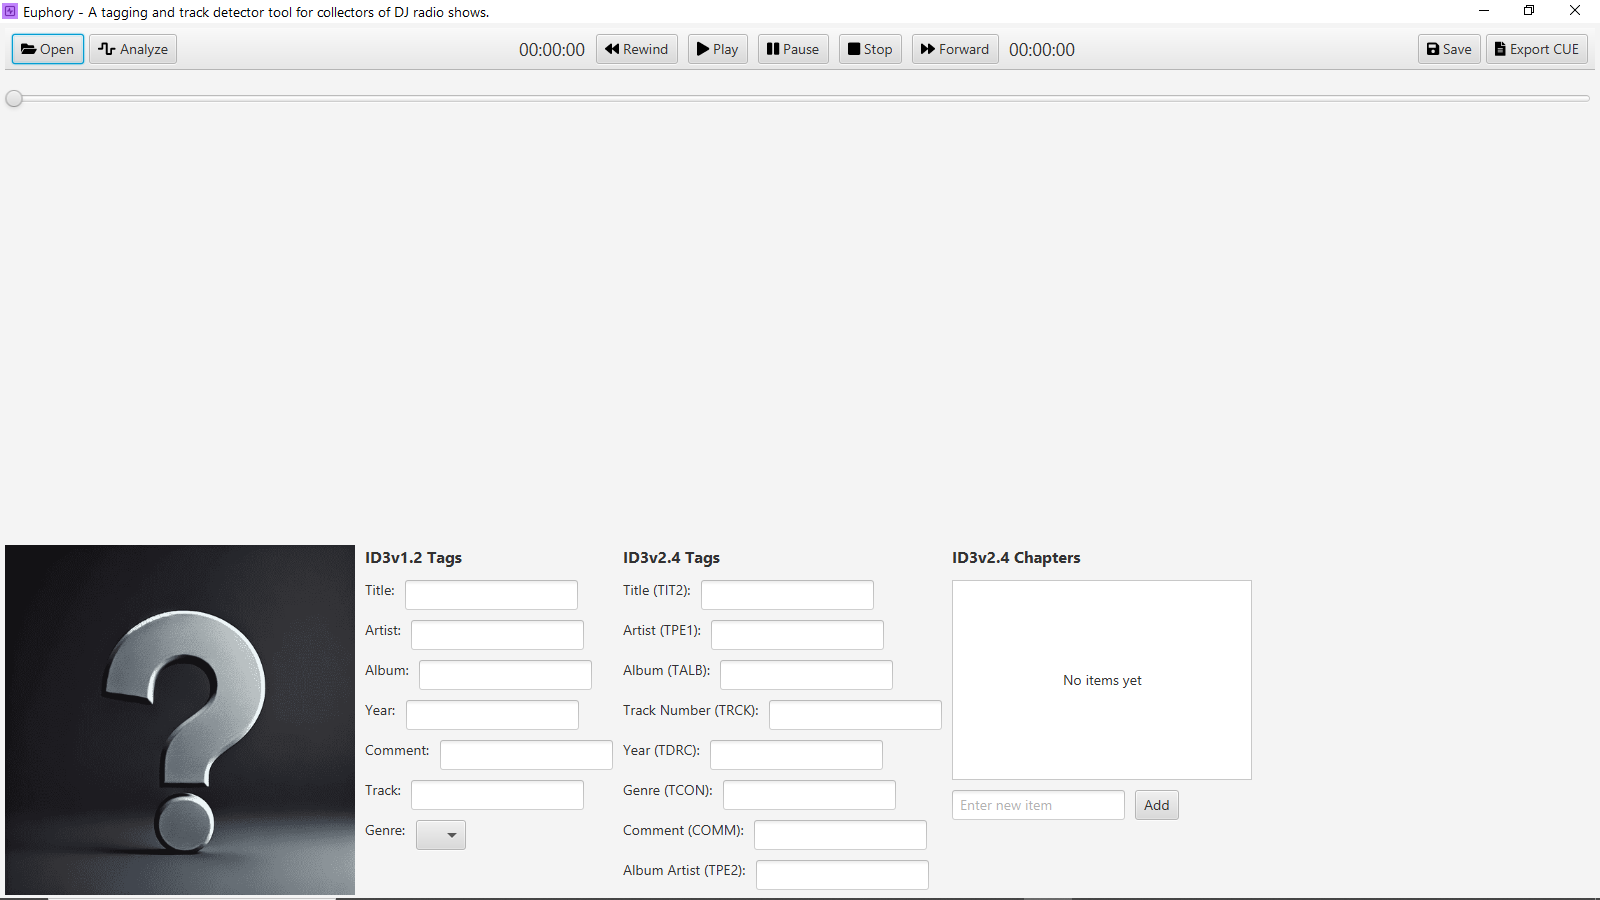
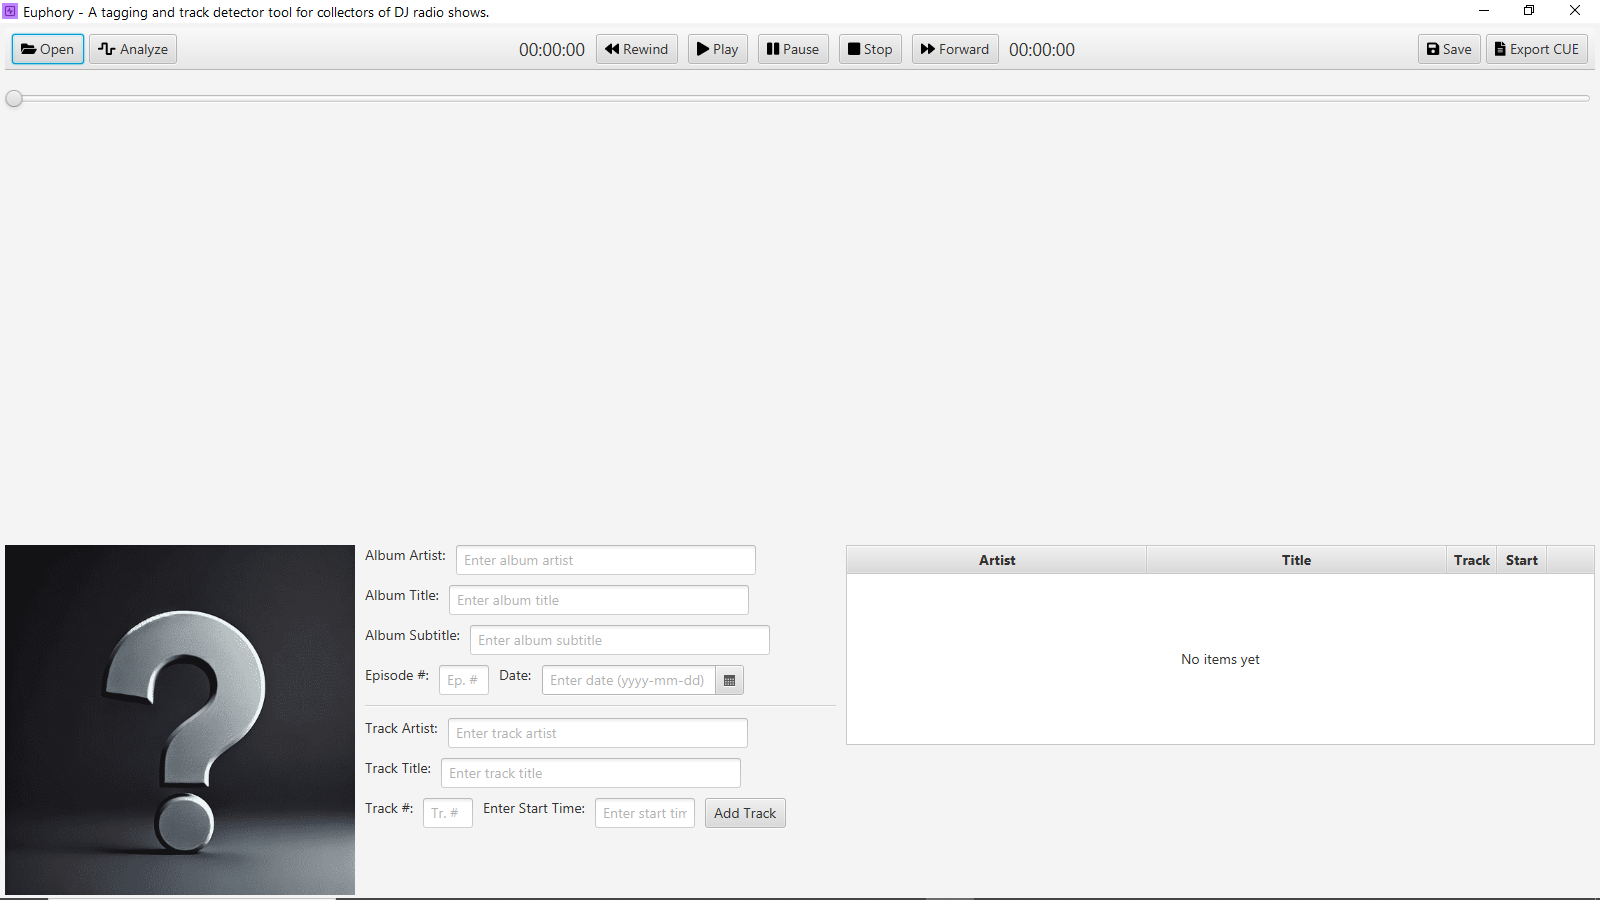
Fixed album metadata and recreated metadata interface to show metadata instead of ID3 tags

diff --git a/src/main/java/org/github/euphory/Controller.java b/src/main/java/org/github/euphory/Controller.java
@@ -10,9 +10,10 @@
 package org.github.euphory;
 
 import java.io.File;
+import java.time.LocalDate;
+import java.time.format.DateTimeFormatter;
+
 import javafx.beans.Observable;
-import javafx.collections.FXCollections;
-import javafx.collections.ObservableList;
 import javafx.event.ActionEvent;
 import javafx.fxml.FXML;
 import javafx.scene.canvas.Canvas;
@@ -20,11 +21,11 @@ import javafx.scene.canvas.GraphicsContext;
 import javafx.scene.control.Alert;
 import javafx.scene.control.Button;
 import javafx.scene.control.Control;
+import javafx.scene.control.DatePicker;
 import javafx.scene.control.Label;
-import javafx.scene.control.ListView;
 import javafx.scene.control.Slider;
+import javafx.scene.control.TableView;
 import javafx.scene.control.TextField;
-import javafx.scene.control.cell.TextFieldListCell;
 import javafx.scene.image.Image;
 import javafx.scene.image.ImageView;
 import javafx.scene.layout.HBox;
@@ -32,6 +33,8 @@ import javafx.scene.media.Media;
 import javafx.scene.media.MediaPlayer;
 import javafx.scene.paint.Color;
 import javafx.util.Duration;
+import javafx.util.StringConverter;
+
 import org.kordamp.ikonli.javafx.FontIcon;
 
 /**
@@ -82,18 +85,30 @@ public class Controller {
     private ImageView coverImageView;
     
     @FXML
-    private HBox id3DataBox;
+    private HBox metaDataBox;
     
     @FXML
-    private ListView<String> editableListView;
+    private TextField albumArtist;
+
+    @FXML
+    private TextField albumTitle;
+
+    @FXML
+    private DatePicker albumDate;
+
+    @FXML
+    private TextField albumEpisode;
+
+    @FXML
+    private TableView<TrackData> dataTableView;
     
     @FXML
-    private TextField newItemField;
-    
+    private TextField trackArtist, trackTitle, trackNumber, startTime;
+
     @FXML
     private Button addButton;
     
-    private final ObservableList<String> items = FXCollections.observableArrayList();
+    private String datePattern = "yyyy-MM-dd";
 
     public Controller() {
         songSlider = new Slider();
@@ -109,14 +124,16 @@ public class Controller {
         coverImageView.setImage(image);
         setControlsEnabled(false);
         
-        editableListView.setItems(items);
+        /*editableListView.setItems(items);
         editableListView.setCellFactory(TextFieldListCell.forListView());
         editableListView.setEditable(true);
         editableListView.setOnEditCommit(event -> {
             int index = event.getIndex();
             String newValue = event.getNewValue();
             items.set(index, newValue);
-        });
+        });*/
+
+        albumDate.setConverter(getConverter());
     }
 
     @FXML
@@ -216,22 +233,63 @@ public class Controller {
     private void cueButtonAction(ActionEvent actionEvent) {
         //
     }
-    
+
     @FXML
-    private void handleAddItem(ActionEvent actionEvent) {
-        String newItem = newItemField.getText().trim();
-        if (!newItem.isEmpty()) {
-            items.add(newItem);
-            newItemField.clear();
-        }
+    private void handleAddTrack(ActionEvent actionEvent) {
+        String artist = trackArtist.getText();
+        String title = trackTitle.getText();
+        int track = Integer.parseInt(trackNumber.getText());
+        int time = Integer.parseInt(startTime.getText());
+    
+        // Create a new Song object
+        TrackData newTrack = new TrackData(artist, title, track, time);
+        
+        // Add to the TableView
+        dataTableView.getItems().add(newTrack);
+        
+        // Clear the input fields
+        trackArtist.clear();
+        trackTitle.clear();
+        trackNumber.clear();
+        startTime.clear();
     }
 
     public void setControlsEnabled(boolean enabled) {
-        for (var node : id3DataBox.getChildren()) {
+        for (var node : metaDataBox.getChildren()) {
             if (node instanceof Control) {
                 ((Control) node).setDisable(!enabled);
             }
         }
     }
     
+    public StringConverter<LocalDate> getConverter() {
+
+        StringConverter<LocalDate> converter = new StringConverter<LocalDate>() {
+
+            DateTimeFormatter dateFormatter = DateTimeFormatter.ofPattern(datePattern);
+
+            @Override
+            public String toString(LocalDate date) {
+                if (date != null) {
+                    return dateFormatter.format(date);
+                } else {
+                    return "";
+                }
+            }
+    
+            @Override
+            public LocalDate fromString(String string) {
+                if (string != null && !string.isEmpty()) {
+                    return LocalDate.parse(string, dateFormatter);
+                } else {
+                    return null;
+                }
+            }
+
+        };
+
+        return converter;
+
+    }
+
 }

diff --git a/src/main/java/org/github/euphory/AlbumData.java b/src/main/java/org/github/euphory/AlbumData.java
@@ -10,6 +10,8 @@
 package org.github.euphory;
 
 import java.util.ArrayList;
+import java.util.Date;
+
 import javafx.scene.image.Image;
 
 /**
@@ -20,7 +22,9 @@ public class AlbumData {
     
     private String artist;
     private String title;
+    private String subTitle;
     private int episode;
+    private Date date;
     private ArrayList<TrackData> tracks;
     private Image coverImage;
     private String fileName;
@@ -51,12 +55,28 @@ public class AlbumData {
         this.title = title;
     }
 
+    public String getSubTitle() {
+        return subTitle;
+    }    
+
+    public void setSubTitle(String subTitle) {
+        this.subTitle = subTitle;
+    }
+    
     public int getEpisode() {
         return episode;
     }
 
     public void setEpisode(int episode) {
         this.episode = episode;
+    }
+
+    public Date getDate() {
+        return date;
+    }
+
+    public void setDate(Date date) {
+        this.date = date;
     }
 
     public Image getCoverImage() {

diff --git a/src/main/java/module-info.java b/src/main/java/module-info.java
@@ -17,6 +17,7 @@ module org.github.euphory {
     requires org.kordamp.ikonli.core;
     requires org.kordamp.ikonli.javafx;
     requires org.kordamp.ikonli.fontawesome5;
+    requires javafx.base;
 
     opens org.github.euphory to javafx.fxml;
     exports org.github.euphory;
